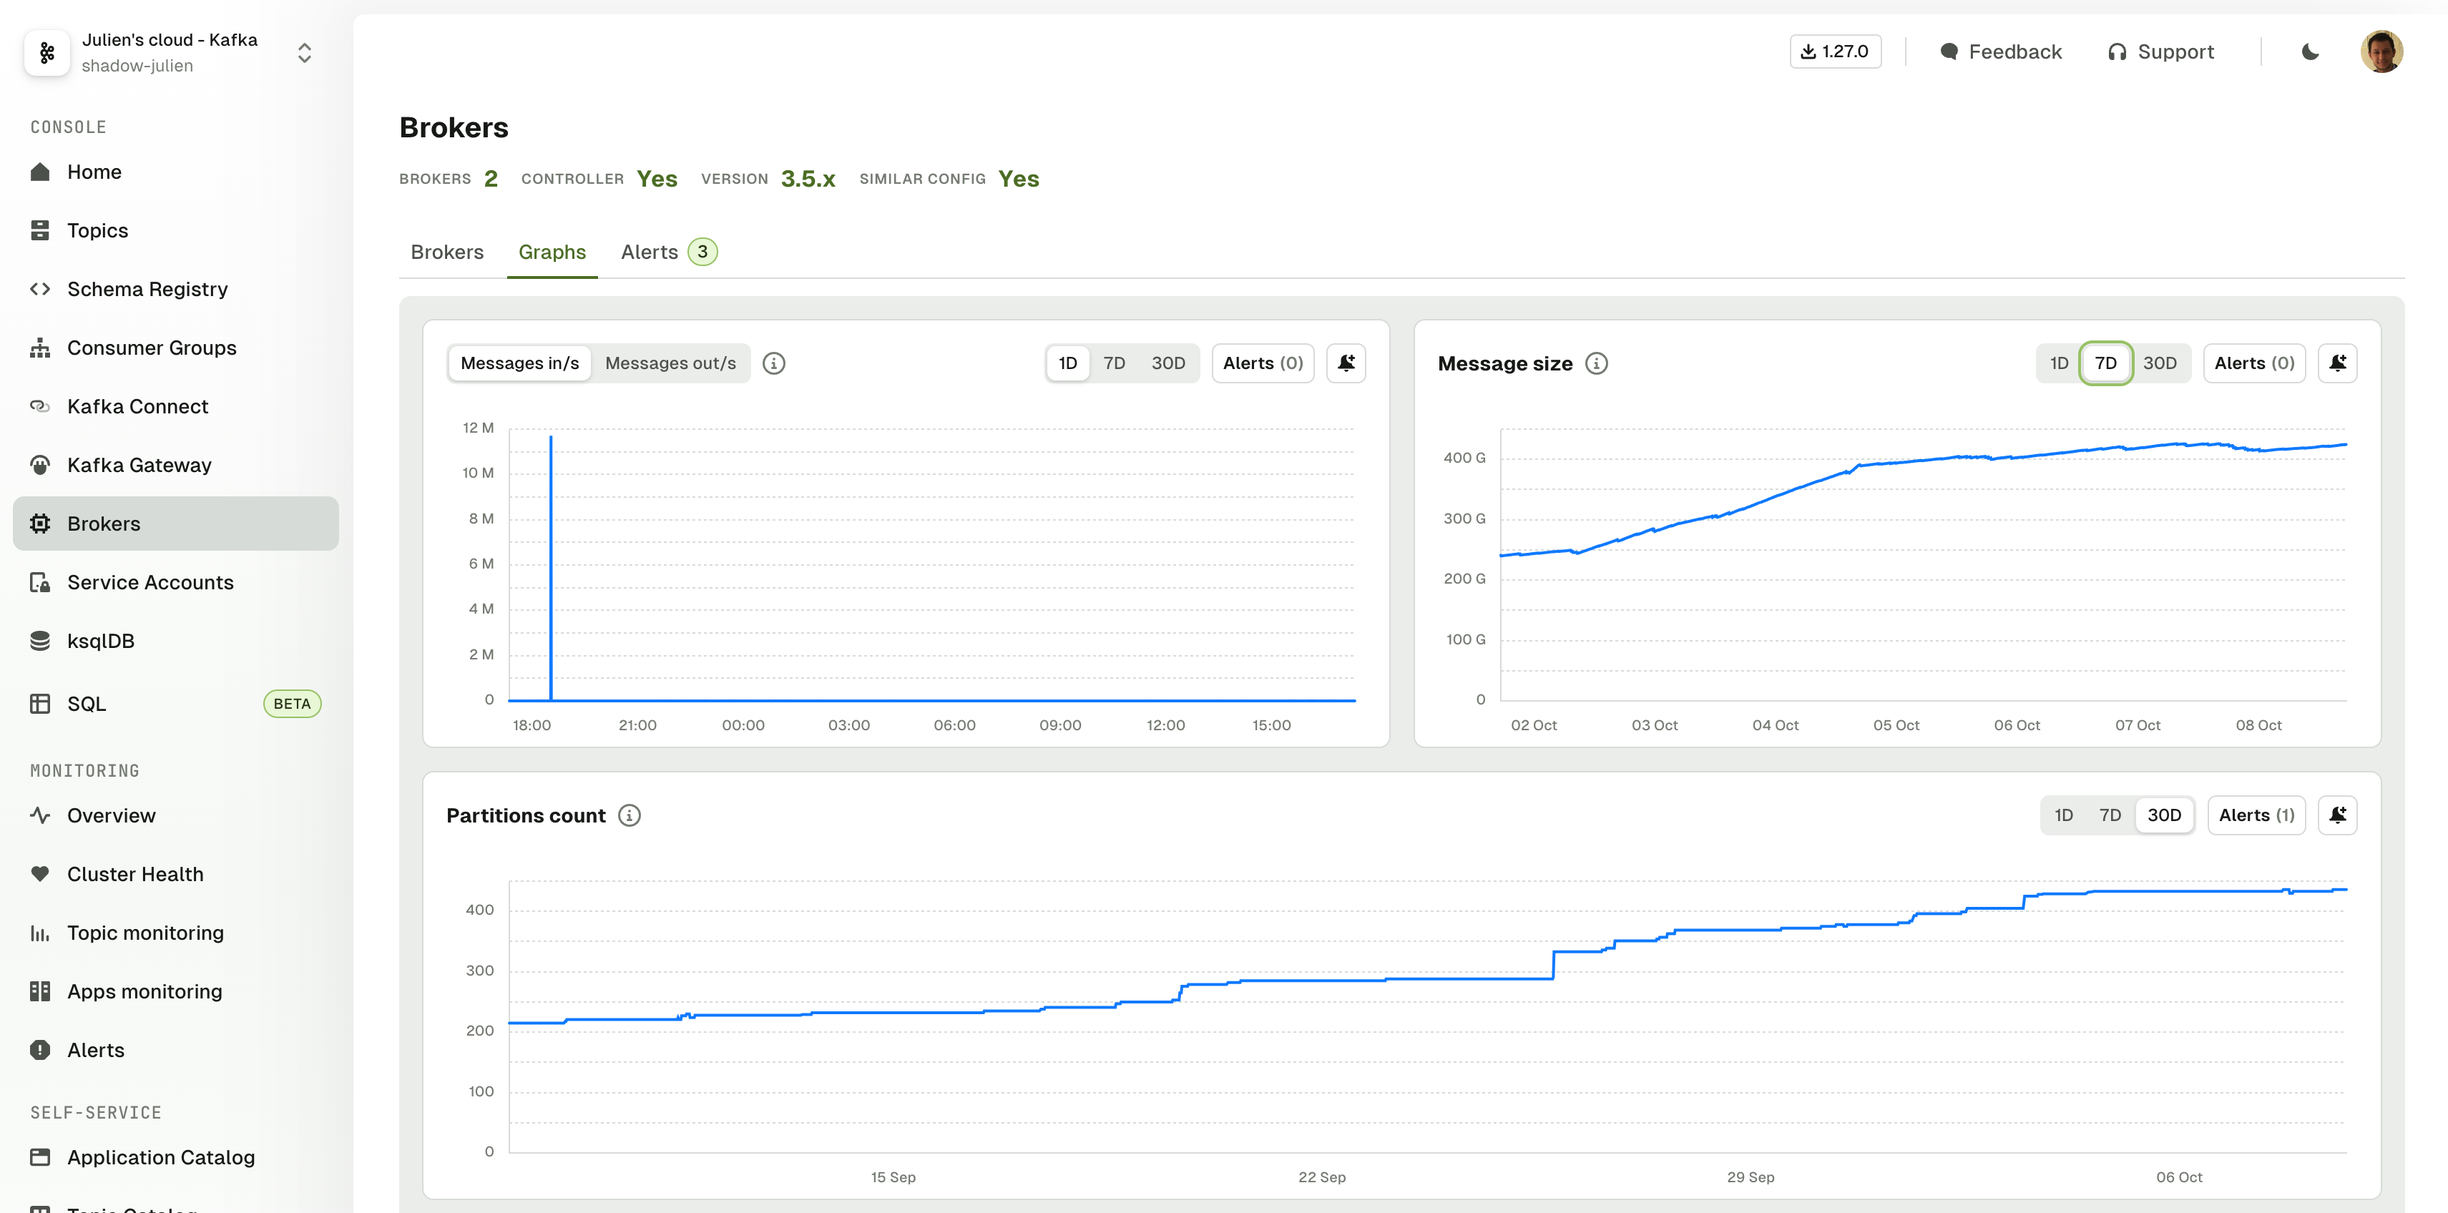
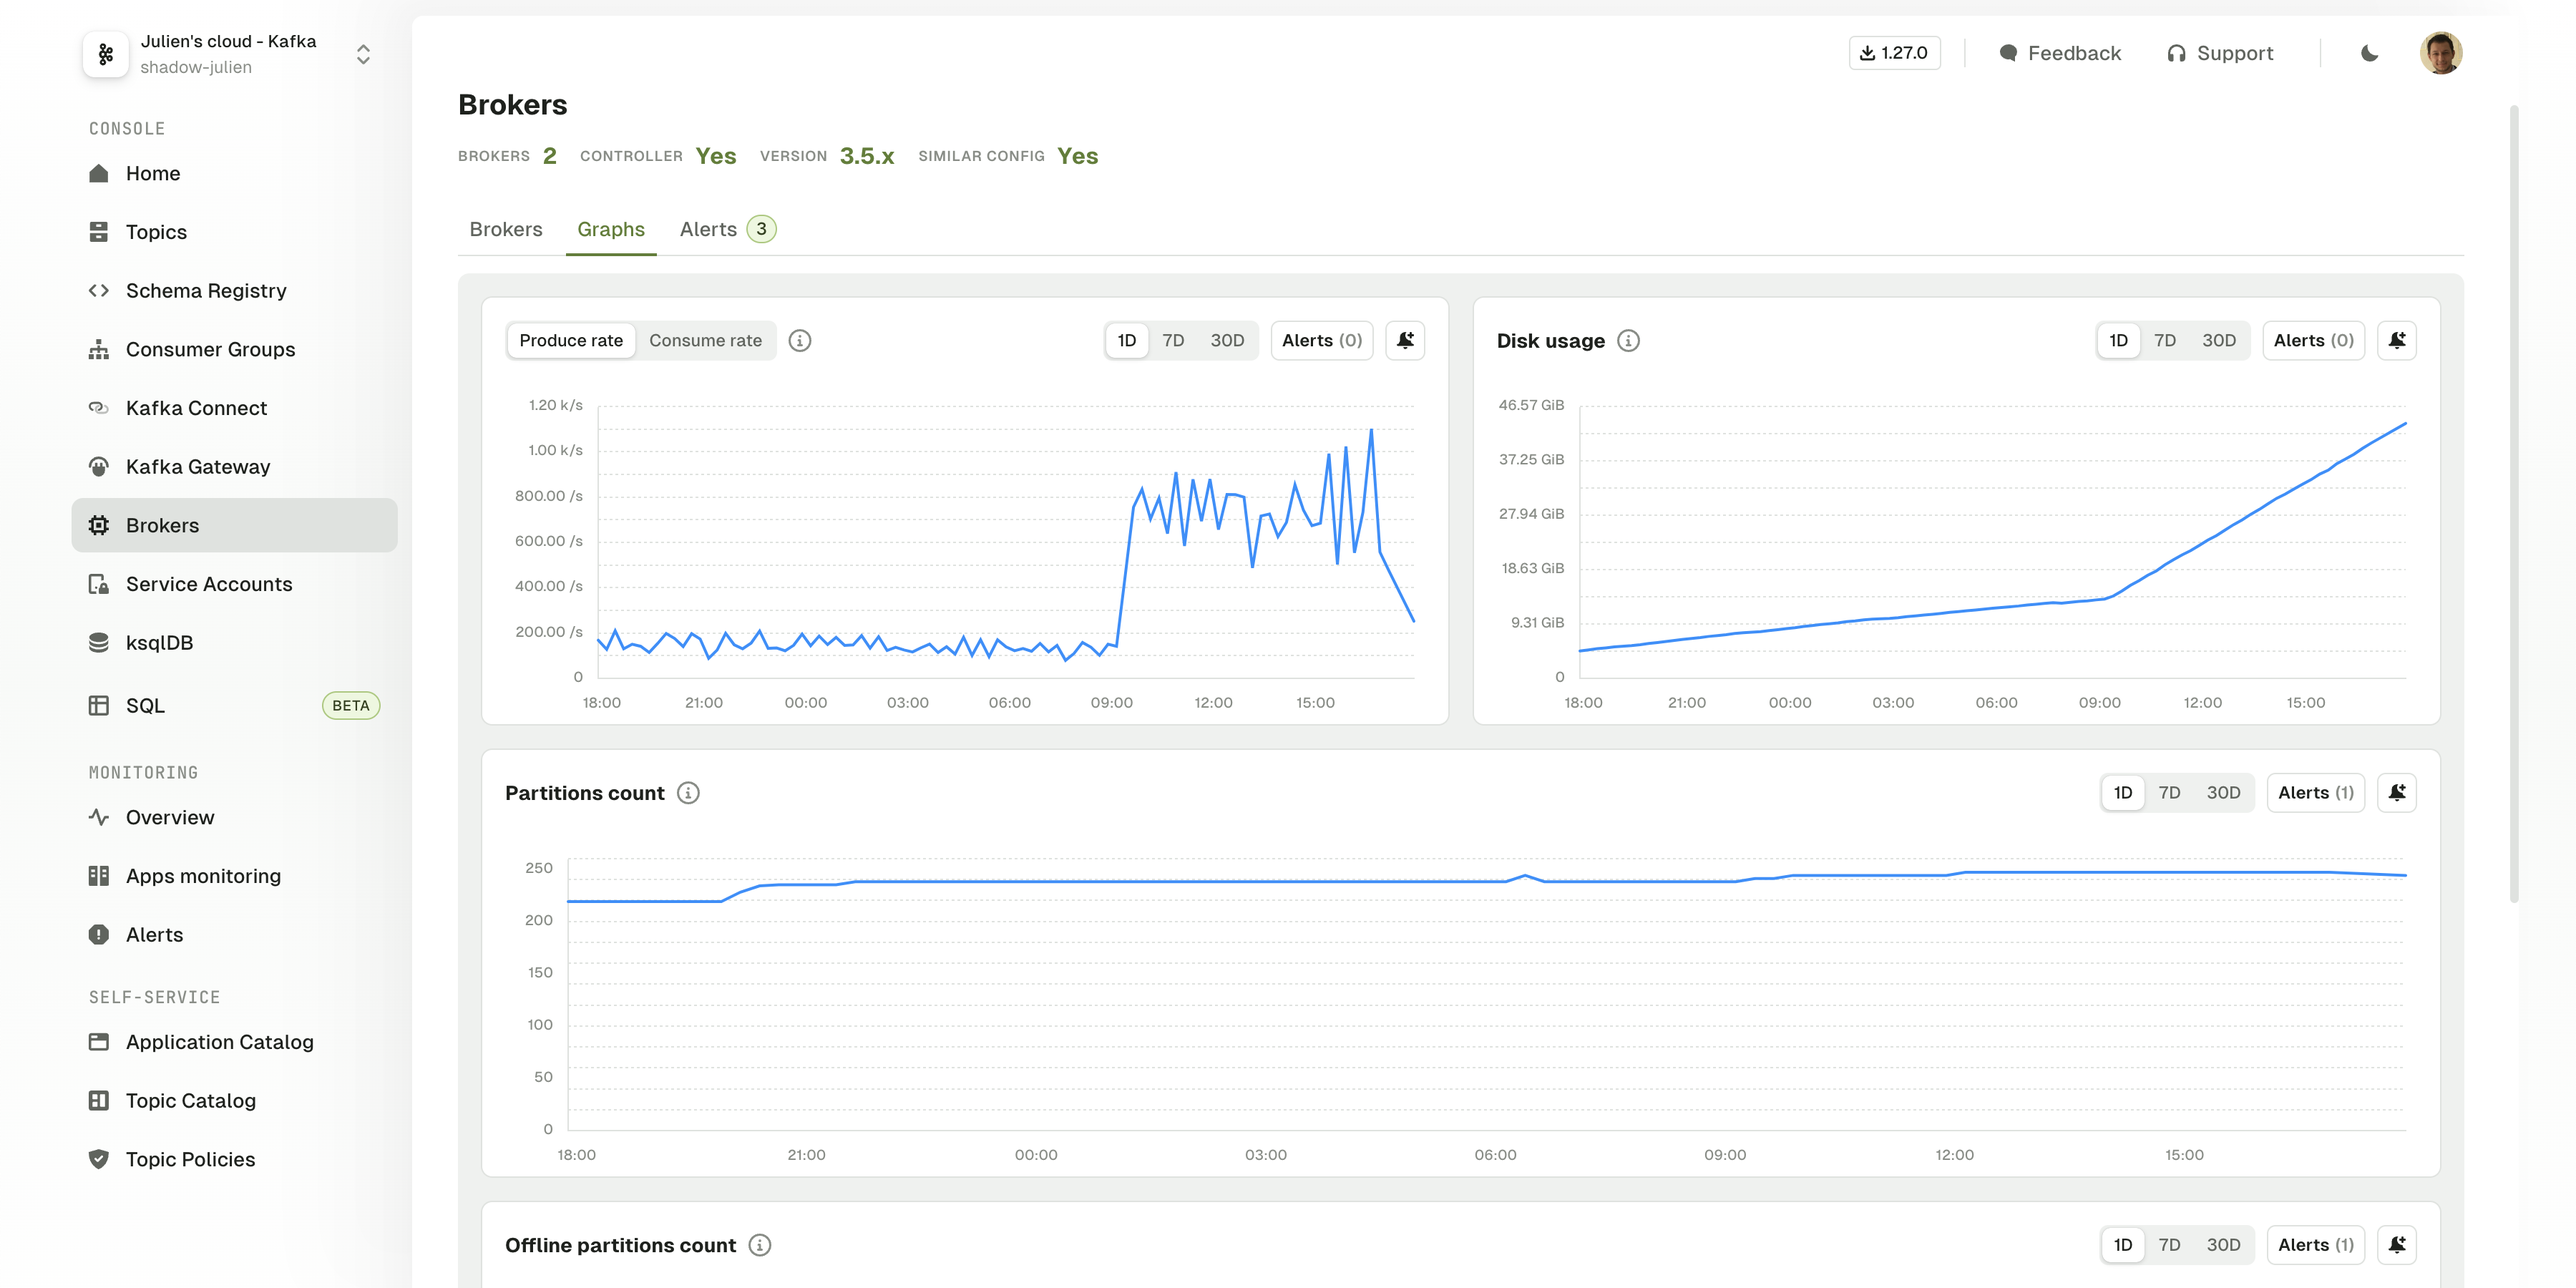
fixes

diff --git a/src/pages/changelog/Console-1.28.0.md b/src/pages/changelog/Console-1.28.0.md
@@ -28,24 +28,33 @@ This migration will happen over the next few releases with our objective to remo
 - Apps monitoring will be integrated with Consumer Groups pages
 - Alerts will be integrated as tabs in all the resource pages, similar to the recent changes Kafka Connect
 
-For this release 1.25.0, we are migrating **Cluster Health** and **Topic monitoring** pages.
-
-#### Brokers page
-The charts and alerts are now available under the Brokers page with cleaner graphs 
-We have removed two metrics that were not possible to calculate correctly since the removal of JMX integration back in release 1.15 (May 2023)
-- Active Controller Count
-- Unclean Leader Election
-
-![Kafka Connect Wizard](/images/changelog/platform/v28/topic-monitoring.png)
+For this release 1.25.0, we are migrating **Topic monitoring** and **Cluster Health** pages.
 
 #### Topic Monitoring
-The 3 existing graphs have been moved on the Topic details and we added a new graph to track the number of records in the topic.  
+The 3 existing graphs have been moved on the Topic details.  
+We also added a new graph to track the number of records in the topic.
+- Produce Rate and Consume Rate
+- Disk Usage
+- Records (new)
 
 ![Kafka Connect Wizard](/images/changelog/platform/v28/topic-monitoring.png)
+
+#### Cluster Health
+The charts and alerts are now available under the Brokers page with cleaner graphs.  
+We have removed two metrics that were not possible to calculate correctly since the removal of JMX integration back in release 1.15 (May 2023)
+- Produce Rate and Consume Rate
+- Disk Usage
+- Partitions Count
+- Offline, Under Replicated and Under Min ISR Partitions
+- Active Controller Count (removed)
+- Unclean Leader Election (removed)
+
+![Kafka Connect Wizard](/images/changelog/platform/v28/broker-monitoring.png)
+
 
 #### New Alerts
 
-As part of this improvement, we have also reworked our alert definitions to pave the way to declaring Alerts via API or CLI.
+As part of this improvement, we have also reworked our alert by allowing you to create them via API or CLI as well as Console.
 
 ````yaml
 ---
@@ -62,15 +71,15 @@ spec:
   threshold: 0
 ````
 
-Starting today, we recommend you use the new alerts for Broker and Topic pages.
+Starting today, we recommend you use the new alerts available under Brokers and Topics pages.
 
 :::caution Deprecation notice
 **We do not plan to migrate existing alerts to the new Alert model.**  
 
 We plan to remove those original alerts in the near future in favor of the new ones.  
-We'll let you know a few releases in advances.
+We'll let you know a few releases in advance.
 
-If you have a large number of alert and need some help, please get in touch with our support as soon as possible.
+If you have a large number of alerts configured and need some help, please get in touch with our support as soon as possible.
 :::
 
 
